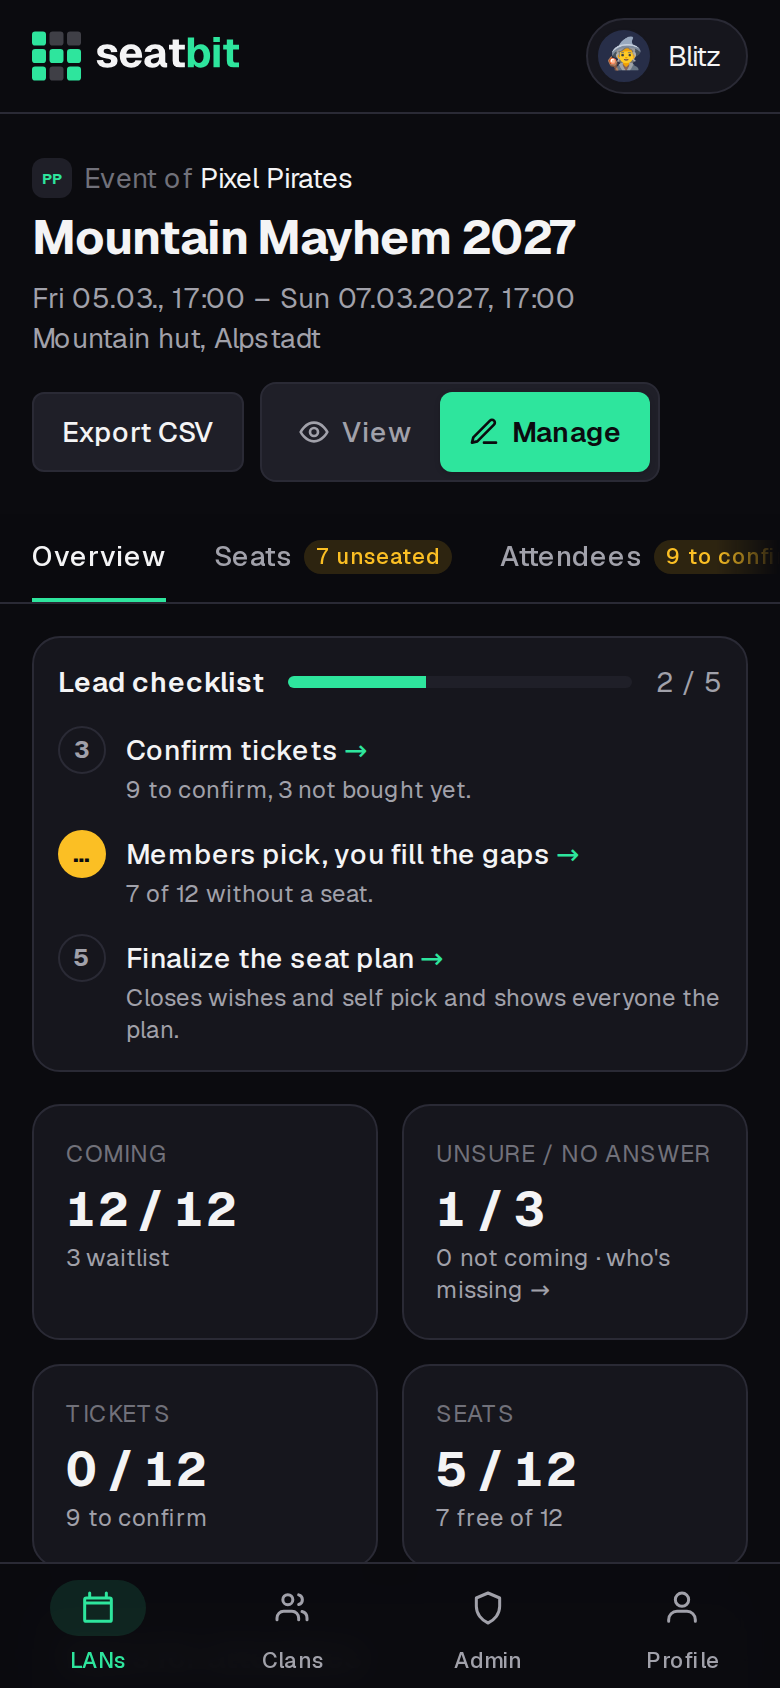
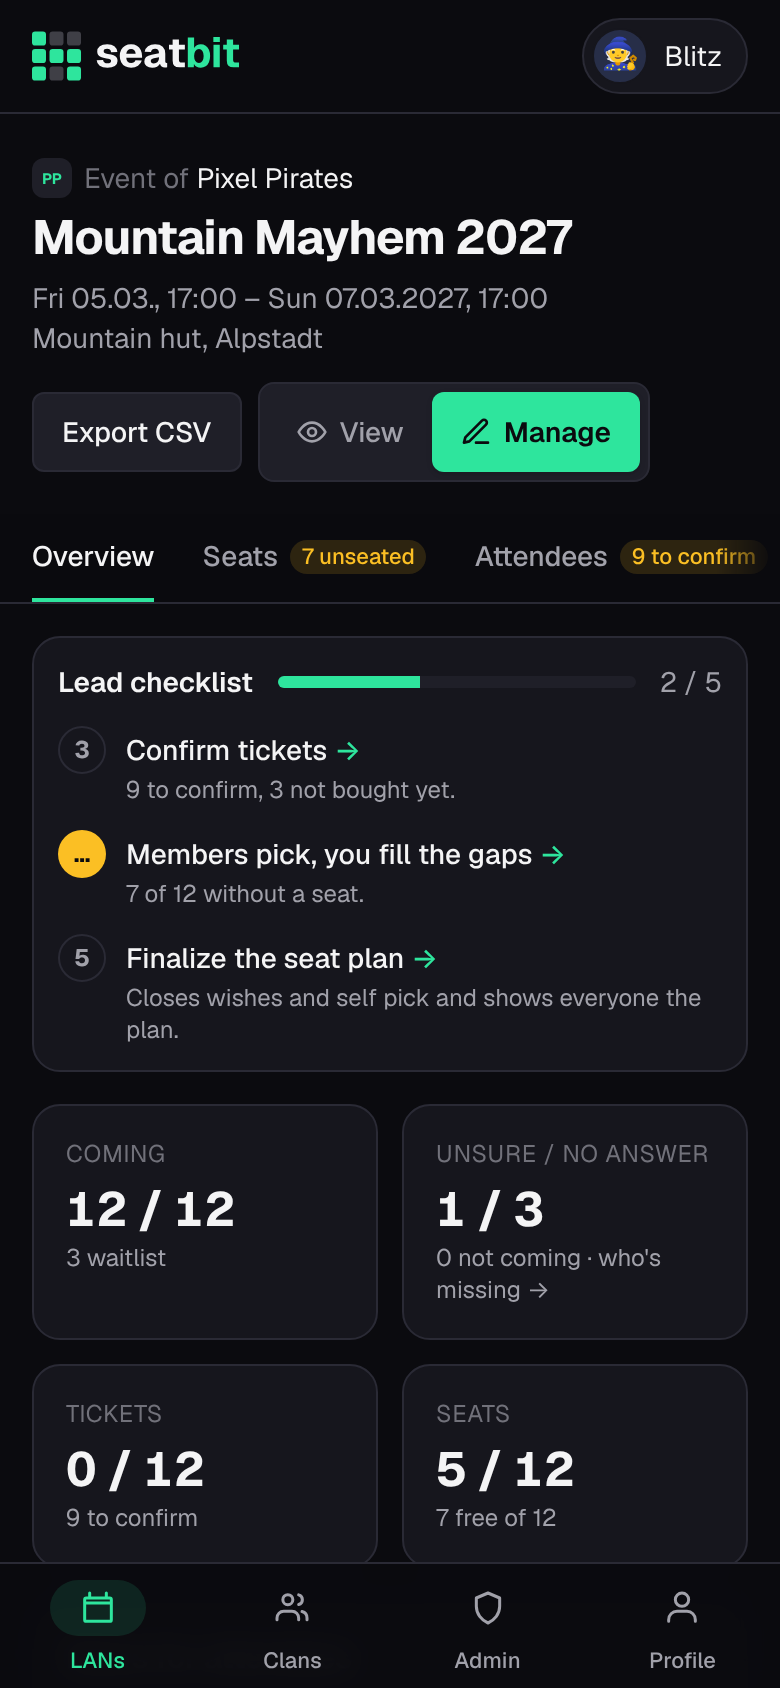
Checklists: all steps in one row on desktop
The member and lead checklists wrapped onto a second row on desktop.
They now stay in one row (scrolling sideways only if a screen is too
narrow). The lead checklist spans the full width above the overview
so its steps fit.

Claude-Session: https://claude.ai/code/session_01Mn3pyoKV5mVXfXu1PoqMQW

diff --git a/src/app/lans/[id]/manage/page.tsx b/src/app/lans/[id]/manage/page.tsx
@@ -392,6 +392,8 @@ export default async function ManageLanPage({ params, searchParams }: PageProps<
         hrefFor={(t) => `/lans/${l.id}/manage?tab=${t}`}
       />
 
+      {/* Full width, so all steps fit in one row on desktop. */}
+      {tab === "overview" && <LeadChecklist steps={leadSteps} />}
       {tab === "overview" && (
         // Same shape as the event page: the main things on the left, dates in a sidebar on the right.
         <div className="grid grid-cols-1 items-start gap-4 sm:gap-6 lg:grid-cols-[minmax(0,1fr)_20rem] 2xl:grid-cols-[minmax(0,1fr)_22rem]">
@@ -415,7 +417,6 @@ export default async function ManageLanPage({ params, searchParams }: PageProps<
             </Card>
           </div>
           <div className="min-w-0 space-y-4 sm:space-y-6 lg:col-start-1 lg:row-start-1">
-          <LeadChecklist steps={leadSteps} />
           {spotToFill && (
             <Notice tone="warn">
               {free === 1 ? "A spot is" : `${free} spots are`} free and {waitlist.length} on the waitlist. You move people up

diff --git a/src/components/lan-checklist.tsx b/src/components/lan-checklist.tsx
@@ -101,7 +101,8 @@ function ChecklistStrip({
         </div>
         <span className={`text-sm ${all ? "font-medium text-bit" : "text-muted"}`}>{all ? t("checklist.allSet") : `${done} / ${total}`}</span>
       </div>
-      <ol className={`grid gap-x-4 gap-y-3 sm:grid-cols-2 ${steps.length >= 4 ? "lg:grid-cols-4" : "lg:grid-cols-3"}`}>
+      {/* Desktop: every step in one row (scrolls sideways if the screen is too narrow), never a second row. */}
+      <ol className="grid gap-x-4 gap-y-3 sm:grid-cols-2 lg:grid-flow-col lg:grid-cols-none lg:auto-cols-[minmax(7rem,1fr)] lg:gap-x-3 lg:overflow-x-auto">
         {steps.map((s, i) => (
           // Phones: only the steps still open, so the strip stays short above the tabs.
           <li key={s.key} className={`${s.state === "done" && !all ? "hidden sm:flex" : "flex"} gap-2.5`}>

diff --git a/src/components/lead-checklist.tsx b/src/components/lead-checklist.tsx
@@ -14,7 +14,8 @@ export function LeadChecklist({ steps }: { steps: LeadStep[] }) {
         </div>
         <span className={`text-sm ${all ? "font-medium text-bit" : "text-muted"}`}>{all ? "All set" : `${done} / ${steps.length}`}</span>
       </div>
-      <ol className="grid gap-x-4 gap-y-3 sm:grid-cols-2 xl:grid-cols-3">
+      {/* Desktop: every step in one row (scrolls sideways if the screen is too narrow), never a second row. */}
+      <ol className="grid gap-x-4 gap-y-3 sm:grid-cols-2 lg:grid-flow-col lg:grid-cols-none lg:auto-cols-[minmax(7rem,1fr)] lg:gap-x-3 lg:overflow-x-auto">
         {steps.map((s, i) => (
           // Phones: only the open steps, so the list stays short.
           <li key={s.key} className={`${s.state === "done" && !all ? "hidden sm:flex" : "flex"} gap-2.5`}>
